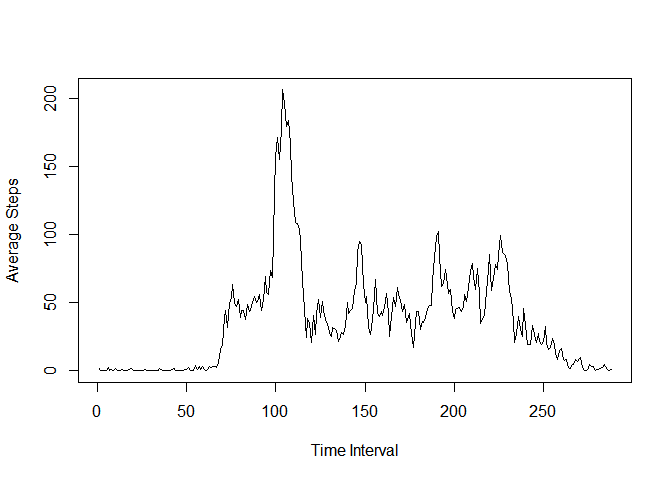
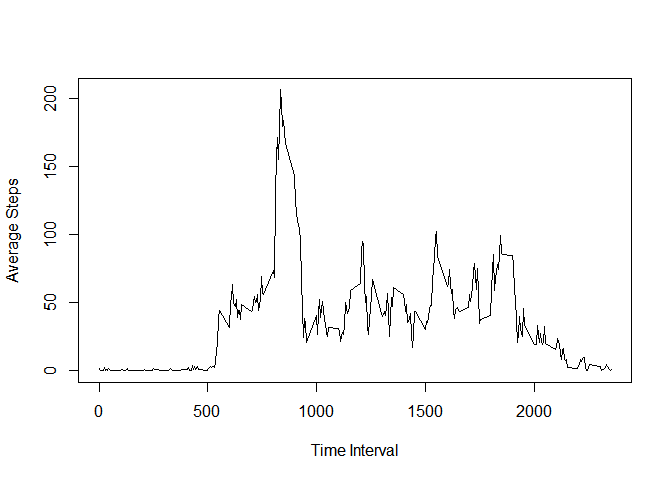
Quick fix for intrepolated values.

diff --git a/PA1_template.html b/PA1_template.html
@@ -93,30 +93,57 @@ median_steps &lt;- median(total_steps)</code></pre>
 <div id="what-is-the-average-daily-activity-pattern" class="section level2">
 <h2>What is the average daily activity pattern?</h2>
 <pre class="r"><code>avg_step_pattern &lt;- with(activity_data_raw, tapply(steps, interval, mean, na.rm=TRUE))
-with(activity_data_raw, plot(1:288, avg_step_pattern, type=&quot;l&quot;, xlab = &quot;Time Interval&quot;, ylab = &quot;Average Steps&quot;))</code></pre>
[1 lines of base64/hex data omitted]
+xIntervals &lt;- unique(activity_data_raw$interval)
+with(activity_data_raw, plot(xIntervals, avg_step_pattern, type=&quot;l&quot;, 
+                             xlab = &quot;Time Interval&quot;, ylab = &quot;Average Steps&quot;))</code></pre>
[1 lines of base64/hex data omitted]
 <pre class="r"><code>max_interval=as.numeric(which(avg_step_pattern==max(avg_step_pattern), arr.ind=TRUE))</code></pre>
-<p>The interval with the maximun number of steps on average across all days is 104</p>
+<p>The interval with the maximun number of steps on average across all days is 835.</p>
 </div>
 <div id="imputing-missing-values" class="section level2">
 <h2>Imputing missing values</h2>
 <pre class="r"><code>num_missing_vals = length(activity_data_raw[is.na(activity_data_raw$steps),1])
 missing_vals&lt;-activity_data_raw[is.na(activity_data_raw),]
-foo &lt;- by(missing_vals$steps, missing_vals$date, count)
 # missing vals are complete days
-# average day on each side to replace missing vals
+foo &lt;- by(missing_vals$steps, missing_vals$date, count)
+# The missing values are completed days with no data.
+# All of the missing values for the day will be filled with an interpolated mean value for the day.
+# The filter function will be used to average the 
+# daily mean value to the left and the right of missing daily mean.
+# This is a quick and dirty interpolation between available data points
+#  xdailymean[missing] = 0.5*xdailymean[missing-1]+0.5*xdailymean[missing+1]
 dailyAve &lt;- by(activity_data_raw$steps, activity_data_raw$date, mean)
 dailyAvePad = as.numeric(c(0,0,0,dailyAve,0,0,0))
 dailyAvePad[is.na(dailyAvePad)] &lt;- 0
 dailyAvePadFiltered&lt;-filter (dailyAvePad, filter = c(1/2, 0, 1/2), sides=2)
 dailyAveVec&lt;-as.numeric(dailyAve)
-dailyAveFill=dailyAvePadFiltered[4:62]
+dailyAveFill=dailyAvePadFiltered[4:64]
 na_fill_vals &lt;- dailyAveFill[is.na(dailyAve)]
 dailyAveVec[is.na(dailyAveVec)] &lt;- dailyAveFill[is.na(dailyAve)]
 #generate list of dates to update
 na_dates &lt;- unique(activity_data_raw[is.na(activity_data_raw$steps),2])
-filler_key &lt;- data.frame(na_dates, na_fill_vals)</code></pre>
-<p>The number of missing values in the inital data set is 2304.</p>
+activity_data_raw_update &lt;- activity_data_raw;
+activity_data_raw_update[activity_data_raw$date==na_dates[1],1]&lt;-na_fill_vals[1]
+activity_data_raw_update[activity_data_raw$date==na_dates[2],1]&lt;-na_fill_vals[2]
+activity_data_raw_update[activity_data_raw$date==na_dates[3],1]&lt;-na_fill_vals[3]
+activity_data_raw_update[activity_data_raw$date==na_dates[4],1]&lt;-na_fill_vals[4]
+activity_data_raw_update[activity_data_raw$date==na_dates[5],1]&lt;-na_fill_vals[5]
+activity_data_raw_update[activity_data_raw$date==na_dates[6],1]&lt;-na_fill_vals[6]
+activity_data_raw_update[activity_data_raw$date==na_dates[7],1]&lt;-na_fill_vals[7]
+activity_data_raw_update[activity_data_raw$date==na_dates[8],1]&lt;-na_fill_vals[8]
+
+total_steps &lt;- by(activity_data_raw$steps, activity_data_raw$date, sum, na.rm=TRUE )
+hist(total_steps, breaks=20)</code></pre>
[1 lines of base64/hex data omitted]
+<pre class="r"><code>total_steps_update &lt;- by(activity_data_raw_update$steps, activity_data_raw_update$date, sum, na.rm=TRUE )
+hist(total_steps_update, breaks=20)</code></pre>
[1 lines of base64/hex data omitted]
+<pre class="r"><code>mean_steps &lt;- mean(total_steps)
+median_steps &lt;- median(total_steps)
+
+mean_steps_update &lt;- mean(total_steps_update)
+median_steps_update &lt;- median(total_steps_update)</code></pre>
+<p>The number of missing values in the inital data set is 2304.<br />The previous mean total number of steps is 9354.2295082.<br />The updated mean total number of steps is 1.018395910^{4}.<br />The previous median total number of steps is 10395.<br />The updated median total number of steps is 1.057110^{4}.</p>
 </div>
 <div id="are-there-differences-in-activity-patterns-between-weekdays-and-weekends" class="section level2">
 <h2>Are there differences in activity patterns between weekdays and weekends?</h2>

diff --git a/PA1_template.md b/PA1_template.md
@@ -43,7 +43,9 @@ The median total number of steps is 10395.
 
 ```r
 avg_step_pattern <- with(activity_data_raw, tapply(steps, interval, mean, na.rm=TRUE))
-with(activity_data_raw, plot(1:288, avg_step_pattern, type="l", xlab = "Time Interval", ylab = "Average Steps"))
+xIntervals <- unique(activity_data_raw$interval)
+with(activity_data_raw, plot(xIntervals, avg_step_pattern, type="l", 
+                             xlab = "Time Interval", ylab = "Average Steps"))
 ```
 
 ![](PA1_template_files/figure-html/unnamed-chunk-4-1.png) 
@@ -52,30 +54,68 @@ with(activity_data_raw, plot(1:288, avg_step_pattern, type="l", xlab = "Time Int
 max_interval=as.numeric(which(avg_step_pattern==max(avg_step_pattern), arr.ind=TRUE))
 ```
 
-The interval with the maximun number of steps on average across all days is 104  
+The interval with the maximun number of steps on average across all days is 835.    
 
 ## Imputing missing values
 
 ```r
 num_missing_vals = length(activity_data_raw[is.na(activity_data_raw$steps),1])
 missing_vals<-activity_data_raw[is.na(activity_data_raw),]
-foo <- by(missing_vals$steps, missing_vals$date, count)
 # missing vals are complete days
-# average day on each side to replace missing vals
+foo <- by(missing_vals$steps, missing_vals$date, count)
+# The missing values are completed days with no data.
+# All of the missing values for the day will be filled with an interpolated mean value for the day.
+# The filter function will be used to average the 
+# daily mean value to the left and the right of missing daily mean.
+# This is a quick and dirty interpolation between available data points
+#  xdailymean[missing] = 0.5*xdailymean[missing-1]+0.5*xdailymean[missing+1]
 dailyAve <- by(activity_data_raw$steps, activity_data_raw$date, mean)
 dailyAvePad = as.numeric(c(0,0,0,dailyAve,0,0,0))
 dailyAvePad[is.na(dailyAvePad)] <- 0
 dailyAvePadFiltered<-filter (dailyAvePad, filter = c(1/2, 0, 1/2), sides=2)
 dailyAveVec<-as.numeric(dailyAve)
-dailyAveFill=dailyAvePadFiltered[4:62]
+dailyAveFill=dailyAvePadFiltered[4:64]
 na_fill_vals <- dailyAveFill[is.na(dailyAve)]
 dailyAveVec[is.na(dailyAveVec)] <- dailyAveFill[is.na(dailyAve)]
 #generate list of dates to update
 na_dates <- unique(activity_data_raw[is.na(activity_data_raw$steps),2])
-filler_key <- data.frame(na_dates, na_fill_vals)
+activity_data_raw_update <- activity_data_raw;
+activity_data_raw_update[activity_data_raw$date==na_dates[1],1]<-na_fill_vals[1]
+activity_data_raw_update[activity_data_raw$date==na_dates[2],1]<-na_fill_vals[2]
+activity_data_raw_update[activity_data_raw$date==na_dates[3],1]<-na_fill_vals[3]
+activity_data_raw_update[activity_data_raw$date==na_dates[4],1]<-na_fill_vals[4]
+activity_data_raw_update[activity_data_raw$date==na_dates[5],1]<-na_fill_vals[5]
+activity_data_raw_update[activity_data_raw$date==na_dates[6],1]<-na_fill_vals[6]
+activity_data_raw_update[activity_data_raw$date==na_dates[7],1]<-na_fill_vals[7]
+activity_data_raw_update[activity_data_raw$date==na_dates[8],1]<-na_fill_vals[8]
+
+total_steps <- by(activity_data_raw$steps, activity_data_raw$date, sum, na.rm=TRUE )
+hist(total_steps, breaks=20)
+```
+
+![](PA1_template_files/figure-html/unnamed-chunk-5-1.png) 
+
+```r
+total_steps_update <- by(activity_data_raw_update$steps, activity_data_raw_update$date, sum, na.rm=TRUE )
+hist(total_steps_update, breaks=20)
+```
+
+![](PA1_template_files/figure-html/unnamed-chunk-5-2.png) 
+
+```r
+mean_steps <- mean(total_steps)
+median_steps <- median(total_steps)
+
+mean_steps_update <- mean(total_steps_update)
+median_steps_update <- median(total_steps_update)
 ```
 
 The number of missing values in the inital data set is 2304.    
+The previous mean total number of steps is 9354.2295082.  
+The updated mean total number of steps is 1.0183959\times 10^{4}.  
+The previous median total number of steps is 10395.    
+The updated median total number of steps is 1.0571\times 10^{4}.  
+
 
 ## Are there differences in activity patterns between weekdays and weekends?
 
